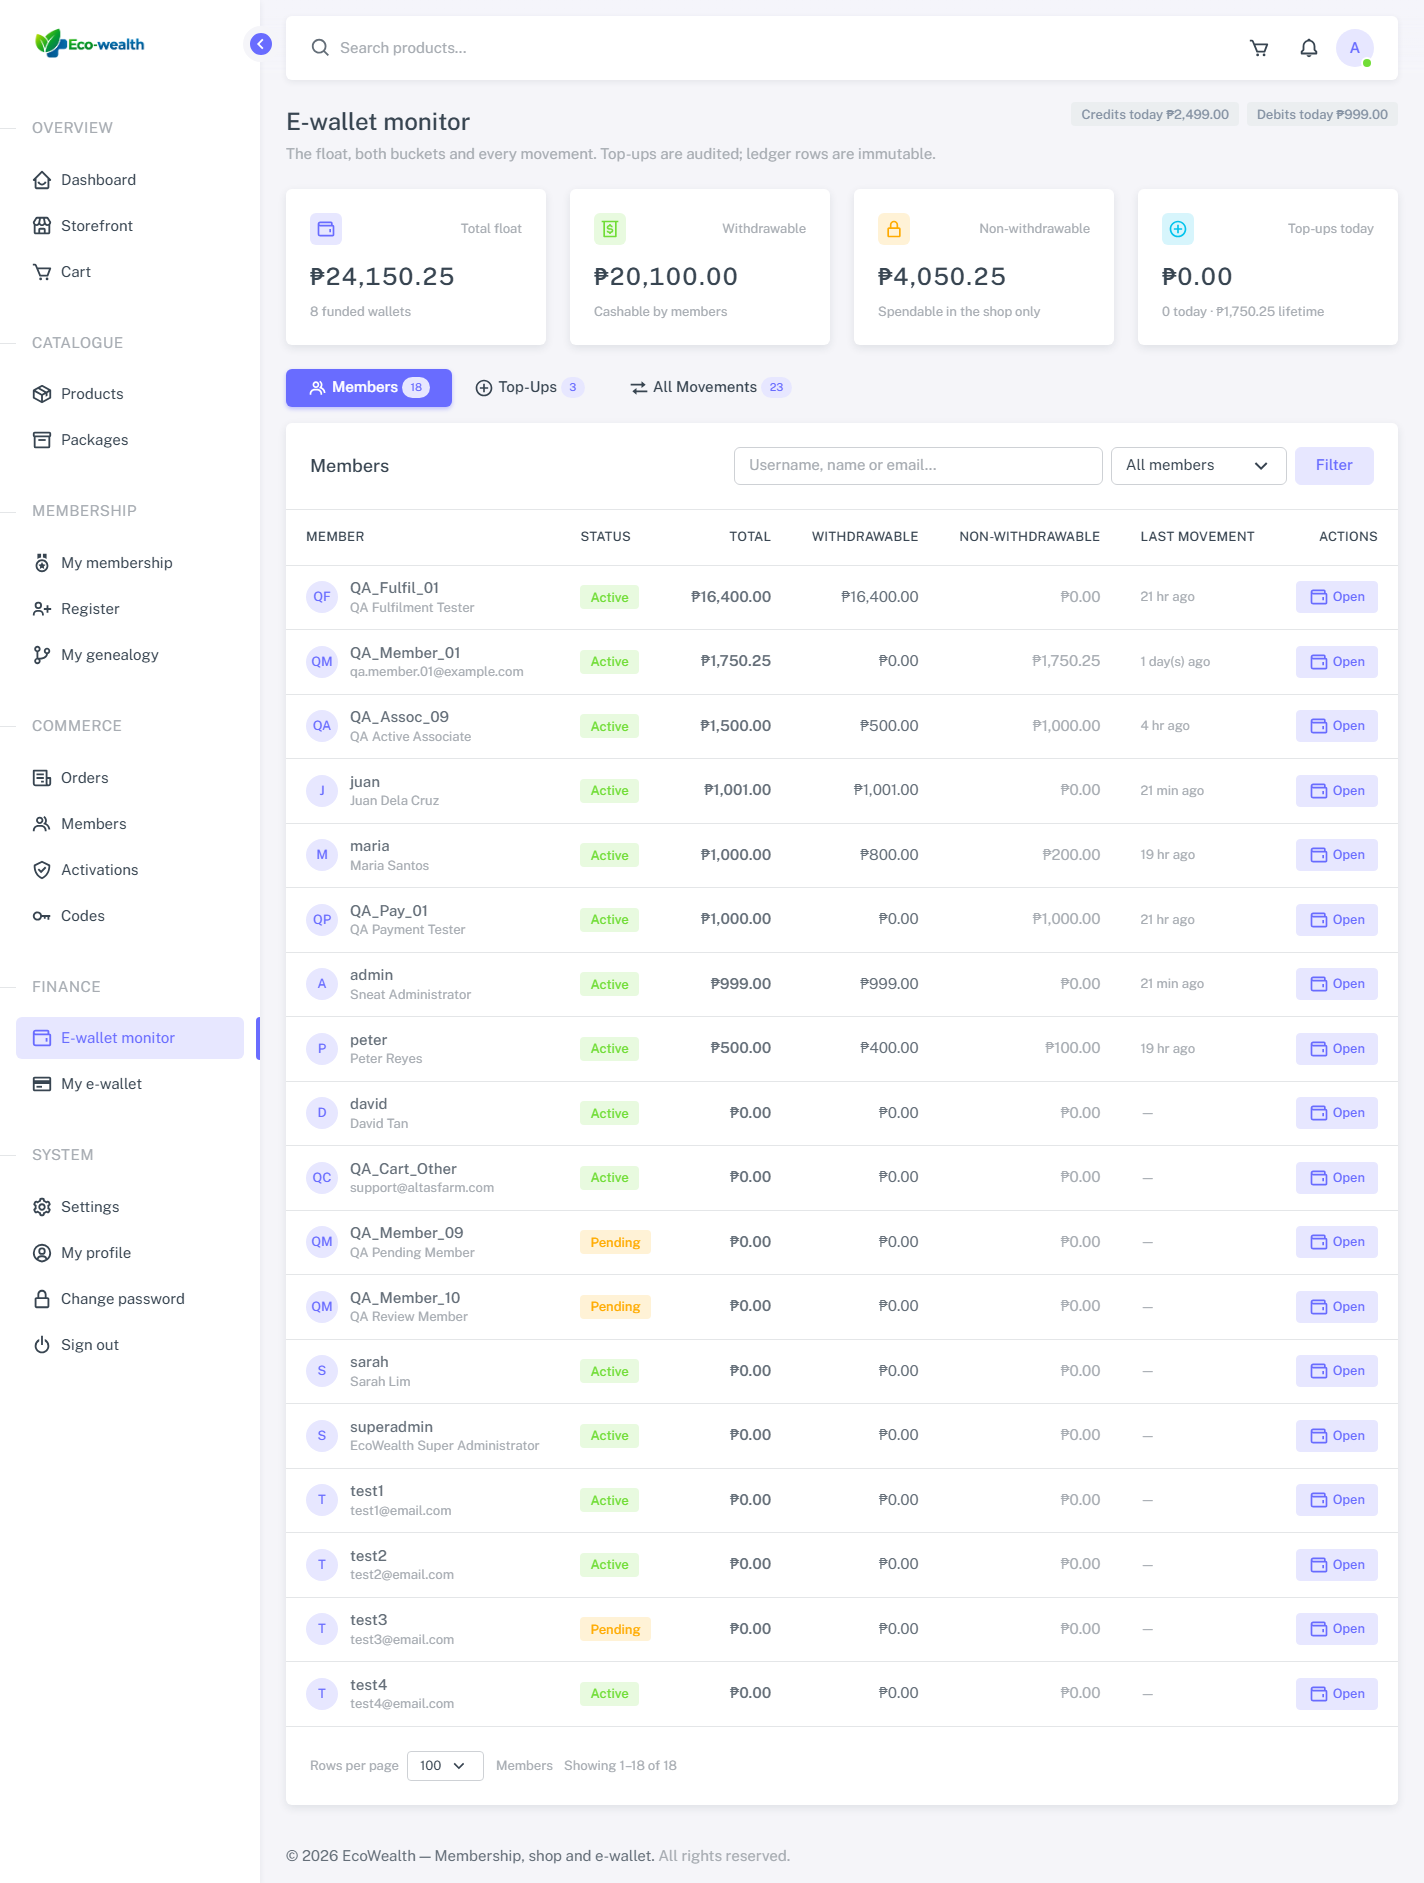
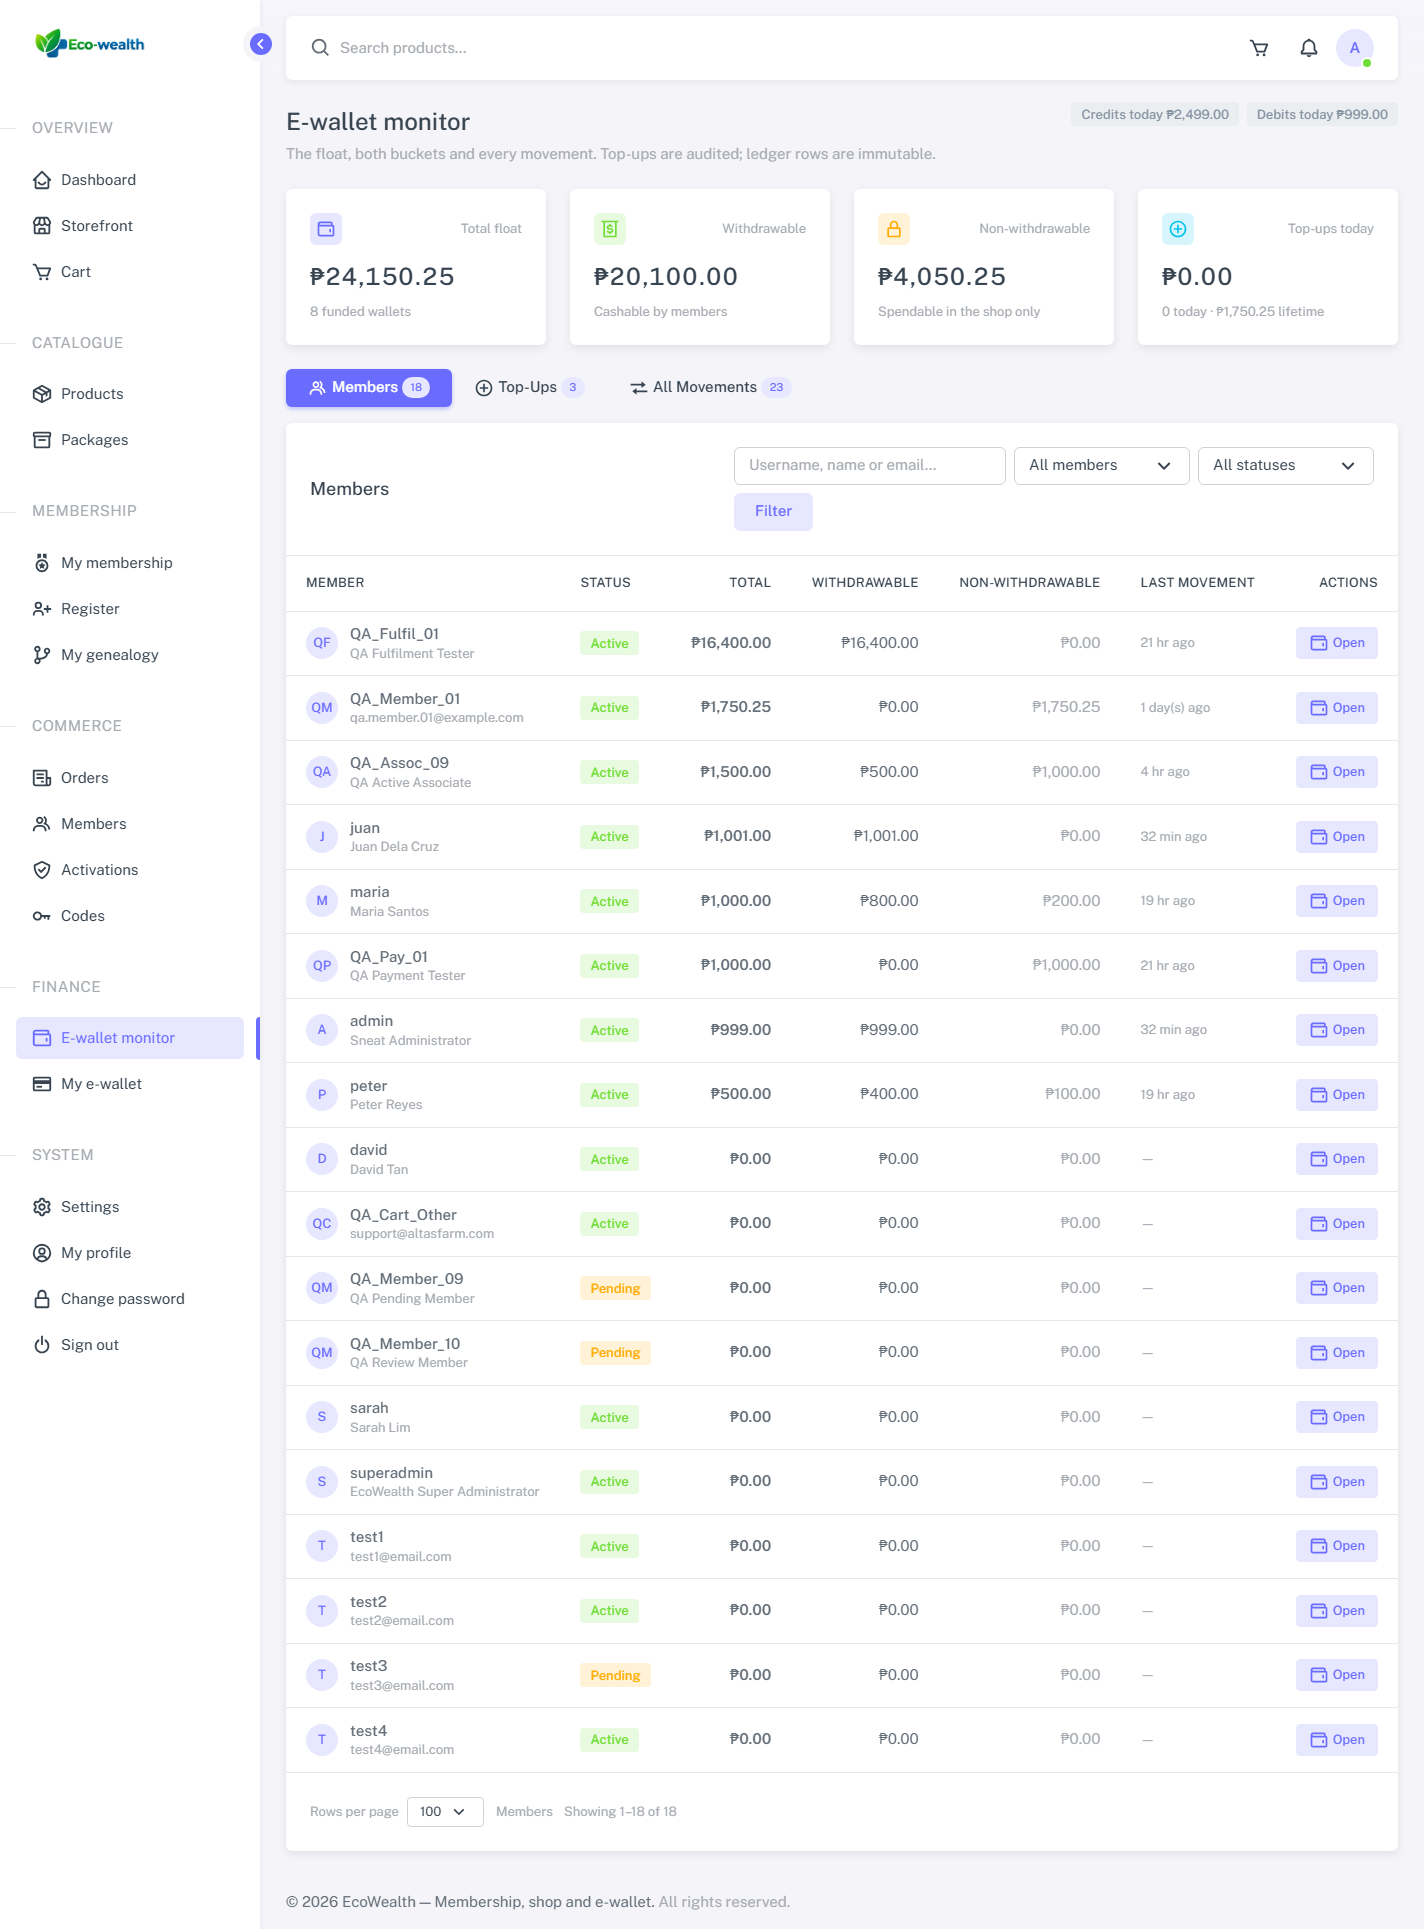
wallets: add a member status filter to the monitor

diff --git a/system/tests/Cases/WalletViewTest.php b/system/tests/Cases/WalletViewTest.php
@@ -65,7 +65,7 @@ $memberPage = static function (array $account, array $filters = [], int $page = 
 };
 
 /** View data for the admin monitor, as AdminWalletController::index builds it. */
-$monitorPage = static function (string $tab = 'members', string $query = ''): array {
+$monitorPage = static function (string $tab = 'members', string $query = '', string $status = ''): array {
     $totals = Wallet::monitorTotals();
 
     $members      = [];
@@ -77,7 +77,7 @@ $monitorPage = static function (string $tab = 'members', string $query = ''): ar
     $ledgerTotals = ['rows' => 0, 'credits' => 0.0, 'debits' => 0.0, 'net' => 0.0];
 
     if ($tab === 'members') {
-        $filters      = ['q' => $query, 'funded' => ''];
+        $filters      = ['q' => $query, 'funded' => '', 'status' => $status];
         $membersPager = Paginator::fromRequest(Wallet::memberCount($filters), 20);
         $members      = Wallet::members($filters, $membersPager);
     } elseif ($tab === 'topups') {
@@ -104,6 +104,7 @@ $monitorPage = static function (string $tab = 'members', string $query = ''): ar
         ],
         'query'          => $query,
         'funded'         => '',
+        'status'         => $status,
         'members'        => $members,
         'members_pager'  => $membersPager,
         'topups'         => $topups,
@@ -261,6 +262,28 @@ return [
         assert_contains('My e-wallet', $nav);
         assert_contains('menu-item active', $nav);
         assert_not_contains('Payouts', $nav, 'Phase 13 is still hidden');
+    },
+
+    'P5-T7 the monitor filters members by status' => function () use ($render, $makeMember, $monitorPage): void {
+        $admin   = test_user('wv_admin', 'admin');
+        $active  = $makeMember();
+        $pending = $makeMember();
+
+        db()->prepare("UPDATE users SET member_status = 'pending' WHERE id = ?")
+            ->execute([(int) $pending['id']]);
+
+        $wallet = new WalletService();
+        $wallet->credit((int) $pending['id'], '100.00', 'topup', 4401, 'Fund', false);
+        $wallet->credit((int) $active['id'], '50.00', 'topup', 4402, 'Fund', false);
+
+        test_signed_in_as($admin);
+
+        $html = $render('admin', 'admin/wallets/index', $monitorPage('members', '', 'pending'));
+
+        assert_contains('value="pending" selected', $html, 'the status filter keeps its selection');
+        assert_contains((string) $pending['username'], $html);
+        assert_not_contains((string) $active['username'], $html, 'active members are filtered out');
+        assert_contains('Clear', $html, 'a status filter offers Clear');
     },
 
     'P5-T7 the admin top-up tab and the all-movements tab render' => function () use ($render, $makeMember, $monitorPage): void {

diff --git a/system/app/views/admin/wallets/index.php b/system/app/views/admin/wallets/index.php
@@ -19,6 +19,7 @@ declare(strict_types=1);
  * @var array<string, int> $tab_counts
  * @var string $query
  * @var string $funded
+ * @var string $status
  * @var list<array<string, mixed>> $members
  * @var Paginator $members_pager
  * @var list<array<string, mixed>> $topups
@@ -136,8 +137,14 @@ $tabs = [
                       <option value="">All members</option>
                       <option value="1" <?= $funded === '1' ? 'selected' : '' ?>>Funded only</option>
                     </select>
+                    <select name="status" class="form-select" aria-label="Filter by status">
+                      <option value="">All statuses</option>
+<?php foreach (['active' => 'Active', 'pending' => 'Pending', 'inactive' => 'Inactive', 'suspended' => 'Suspended'] as $value => $label): ?>
+                      <option value="<?= e($value) ?>" <?= $status === $value ? 'selected' : '' ?>><?= e($label) ?></option>
+<?php endforeach; ?>
+                    </select>
                     <button type="submit" class="btn btn-label-primary">Filter</button>
-<?php if ($query !== '' || $funded !== ''): ?>
+<?php if ($query !== '' || $funded !== '' || $status !== ''): ?>
                     <a href="<?= e(url('admin/wallets?tab=members')) ?>" class="btn btn-label-secondary">Clear</a>
 <?php endif; ?>
                   </form>

diff --git a/system/app/Controllers/AdminWalletController.php b/system/app/Controllers/AdminWalletController.php
@@ -38,6 +38,11 @@ final class AdminWalletController
 
         $query  = Request::string('q');
         $funded = Request::string('funded');
+        $status = strtolower(Request::string('status'));
+
+        if (!in_array($status, ['active', 'pending', 'inactive', 'suspended'], true)) {
+            $status = '';
+        }
 
         $totals = Wallet::monitorTotals();
 
@@ -58,7 +63,7 @@ final class AdminWalletController
         $ledgerTotals = ['rows' => 0, 'credits' => 0.0, 'debits' => 0.0, 'net' => 0.0];
 
         if ($tab === 'members') {
-            $filters      = ['q' => $query, 'funded' => $funded];
+            $filters      = ['q' => $query, 'funded' => $funded, 'status' => $status];
             $membersPager = Paginator::fromTableRequest(Wallet::memberCount($filters));
             $members      = Wallet::members($filters, $membersPager);
         } elseif ($tab === 'topups') {
@@ -87,6 +92,7 @@ final class AdminWalletController
             'tab_counts'      => $tabCounts,
             'query'           => $query,
             'funded'          => $funded,
+            'status'          => $status,
             'members'         => $members,
             'members_pager'   => $membersPager,
             'topups'          => $topups,

diff --git a/system/app/Models/Wallet.php b/system/app/Models/Wallet.php
@@ -356,6 +356,13 @@ final class Wallet
             $where[] = 'ewallet_balance > 0';
         }
 
+        $status = strtolower(trim((string) ($filters['status'] ?? '')));
+
+        if (in_array($status, ['active', 'pending', 'inactive', 'suspended'], true)) {
+            $where[]  = 'member_status = ?';
+            $params[] = $status;
+        }
+
         return [implode(' AND ', $where), $params];
     }
 

diff --git a/docs/phase-log.md b/docs/phase-log.md
@@ -2371,6 +2371,34 @@ members show **Active**.
 `docs/qa/evidence/shell/final-wallet-monitor-status.png` — the monitor with the Status column and the
 pending rows highlighted.
 
+---
+
+## Post-Phase 9 — Status filter in the wallet monitor
+
+**Date:** 2026-11-07 · **Branch:** `feature/shop` · **Status:** complete · **Tests:** 400 PHP cases,
+132 smoke checks, 3 browser checks.
+
+### Change
+
+The Members tab of `/admin/wallets` gained a **Status** filter beside the search and funded selects:
+All statuses / Active / Pending / Inactive / Suspended. `AdminWalletController::index` reads `?status=`
+(unknown values are ignored), passes it through `Wallet::memberWhere()` as a `member_status = ?`
+condition, and the select keeps its selection. Any active filter shows the **Clear** link, and the
+existing filter form keeps the choice across searches because the value is part of the GET query.
+
+### Verification
+
+| Check | Result |
+|---|---|
+| `php tests/run.php` | **400 / 400** — new test renders the monitor with `status=pending`, asserts the selected option and that active members are absent |
+| `powershell -NoProfile -File tests/smoke.ps1` | **132 / 132** |
+| Browser check | `?tab=members&status=pending&per_page=100` → select shows Pending, every row is Pending (`QA_Member_09`, `QA_Member_10`, `test3`) |
+| Data check | `bin/wallet_reconcile.php` exits 0 |
+
+### Evidence
+
+`docs/qa/evidence/shell/final-wallet-status-filter.png` — the filtered monitor.
+
 
 
 

diff --git a/docs/qa/phase-9-membership.md b/docs/qa/phase-9-membership.md
@@ -47,7 +47,7 @@ P9-T12 double activation/approval refused · P9-T13 two parallel redemptions use
 (two database connections) · P9-T14 generation, expiry and export · P9-T15 route guards · P9-T16
 member detail + suspend/restore + audit · P9-T17 genealogy up/down, cycle safety and no binary
 column · P9-T18 referral-code uniqueness. `MembershipTest`, `MembershipViewTest` and the extended
-`MigrationTest`/`RouterTest` cover these (**399 cases in total**). The HTTP smoke script walks the
+`MigrationTest`/`RouterTest` cover these (**400 cases in total**). The HTTP smoke script walks the
 registration, code, pending, manual-activation, approve/reject, suspend/restore, codes and genealogy
 paths over HTTP — **132 checks in total**.
 
@@ -83,7 +83,7 @@ your pass):
 
 > **Before you start:** Phases 1–8 should be signed off, the demo tree must be seeded
 > (`database/seeds/005_demo_tree.sql`) and the automated suites must be green:
-> `php tests\run.php` → **399 cases**; `powershell -NoProfile -File tests\smoke.ps1` → **132 checks**.
+> `php tests\run.php` → **400 cases**; `powershell -NoProfile -File tests\smoke.ps1` → **132 checks**.
 > Create `docs\qa\evidence\phase-9\` for your own screenshots.
 
 ---

diff --git a/system/README.md b/system/README.md
@@ -623,7 +623,7 @@ Full operations guide, Hostinger cron lines and troubleshooting: **`docs/cron.md
 ## Tests
 
 ```bash
-php tests/run.php                 # full suite (399 cases in Phase 9)
+php tests/run.php                 # full suite (400 cases in Phase 9)
 php tests/run.php Router           # cases whose group/label matches "Router"
 php tests/run.php --probe-failure  # proves a failing assertion exits non-zero (P1-T7)
 

diff --git a/docs/qa/README.md b/docs/qa/README.md
@@ -48,7 +48,7 @@ php tests\run.php
 Expected last lines:
 
 ```
-Cases: 399   Passed: 399   Failed: 0
+Cases: 400   Passed: 400   Failed: 0
 All good.
 ```
 
